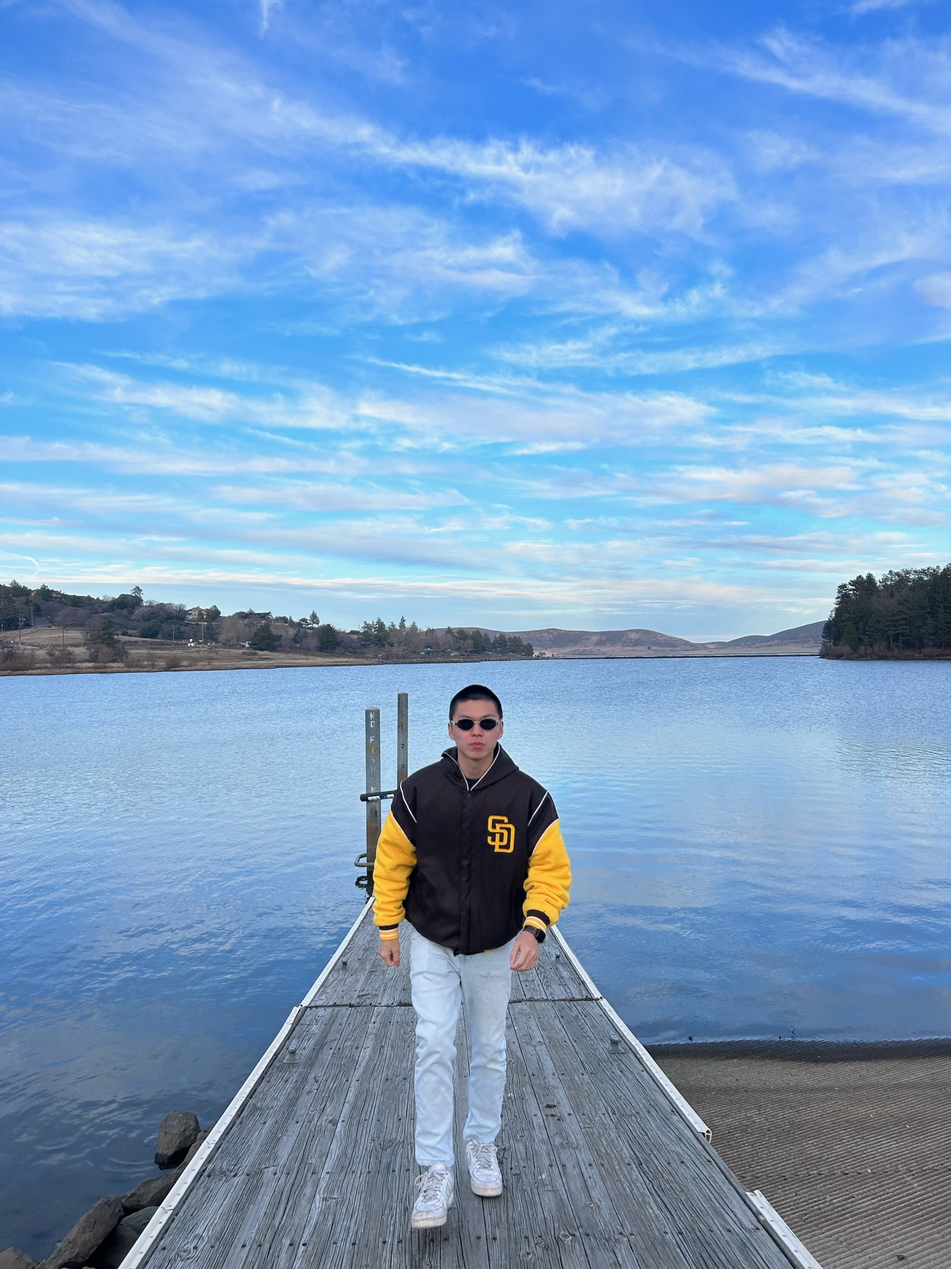
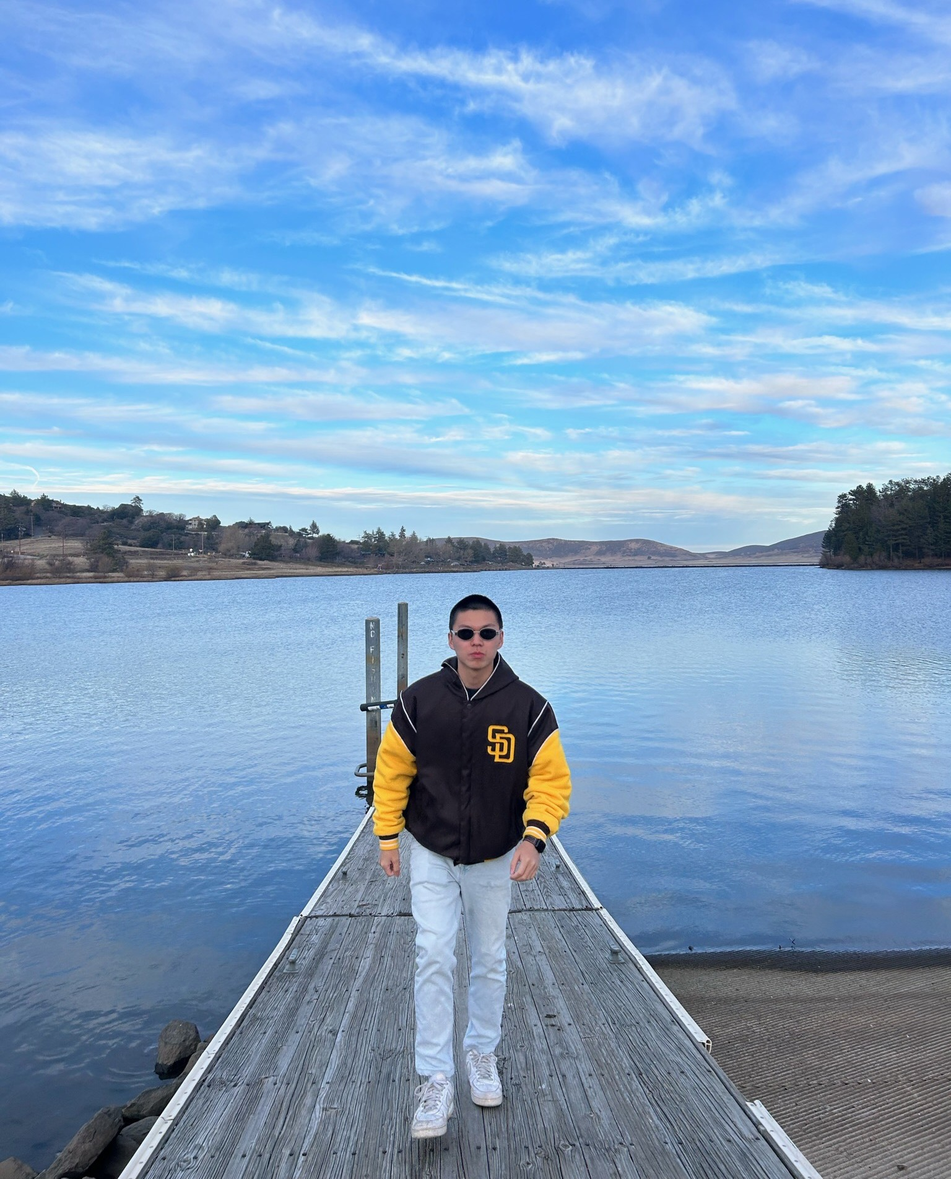
update pic

diff --git a/about.md b/about.md
@@ -13,7 +13,7 @@ title: "About Me"
   Beyond the classroom, I have gained valuable experiences as a mechanical intern or engineer. These experiences have made me more innovative and thoughtful, helping me to refine my career path.
   </div>
   <div class="col-md-6">
-    <img src="{{ site.github.url }}/assets/img/lake_walk.jpg" alt="Casual" class="shift-right" width="70%">
+    <img src="{{ site.github.url }}/assets/img/lake_walk.jpg" alt="Casual" style="margin-left: 20px;" width="70%">
   </div>
   <div class="col-md-6">
   </div>
